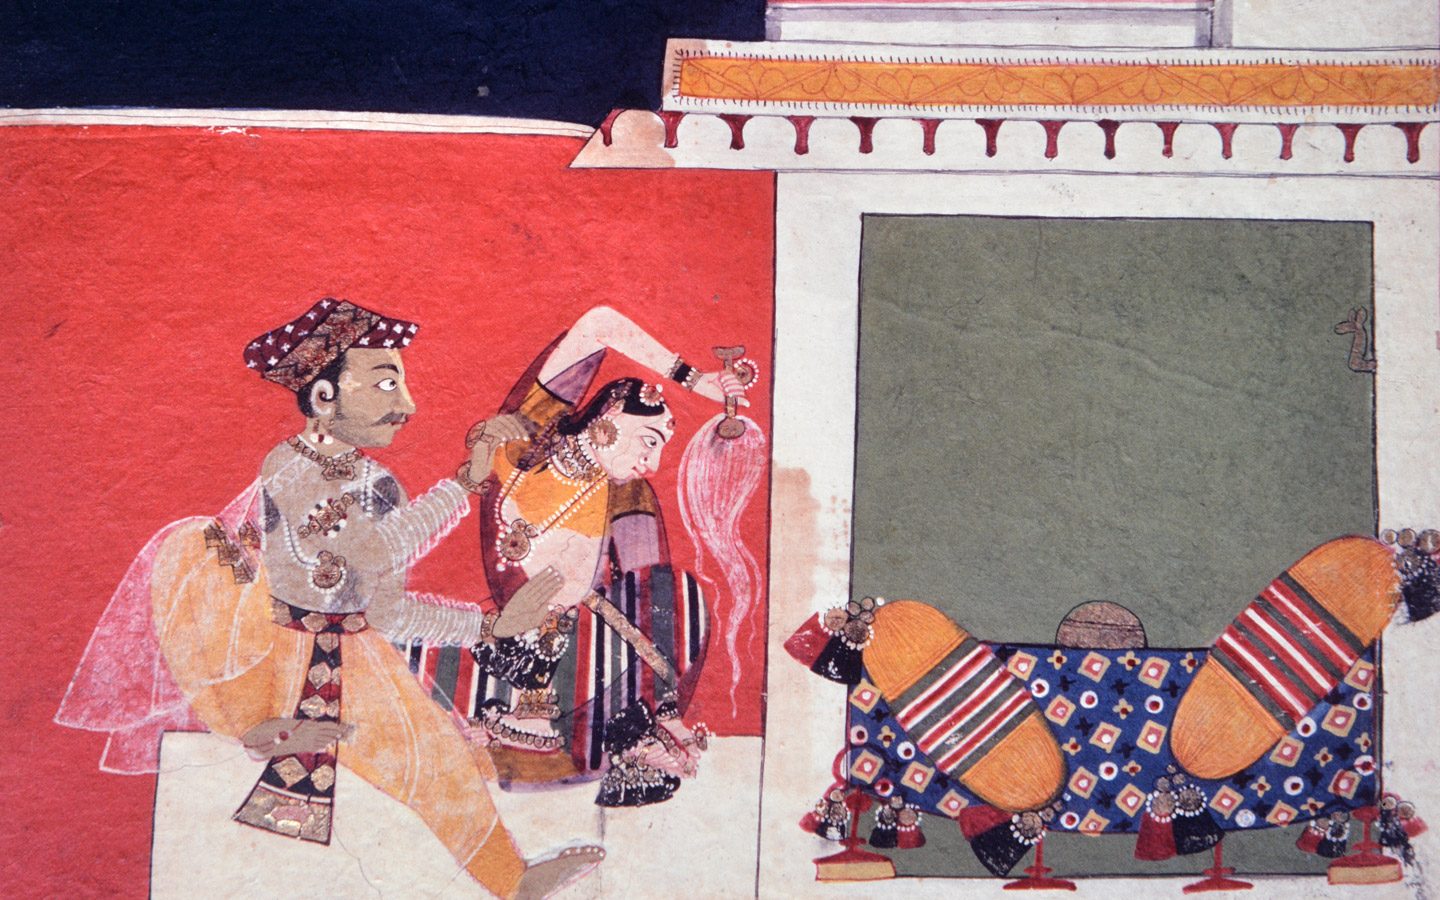
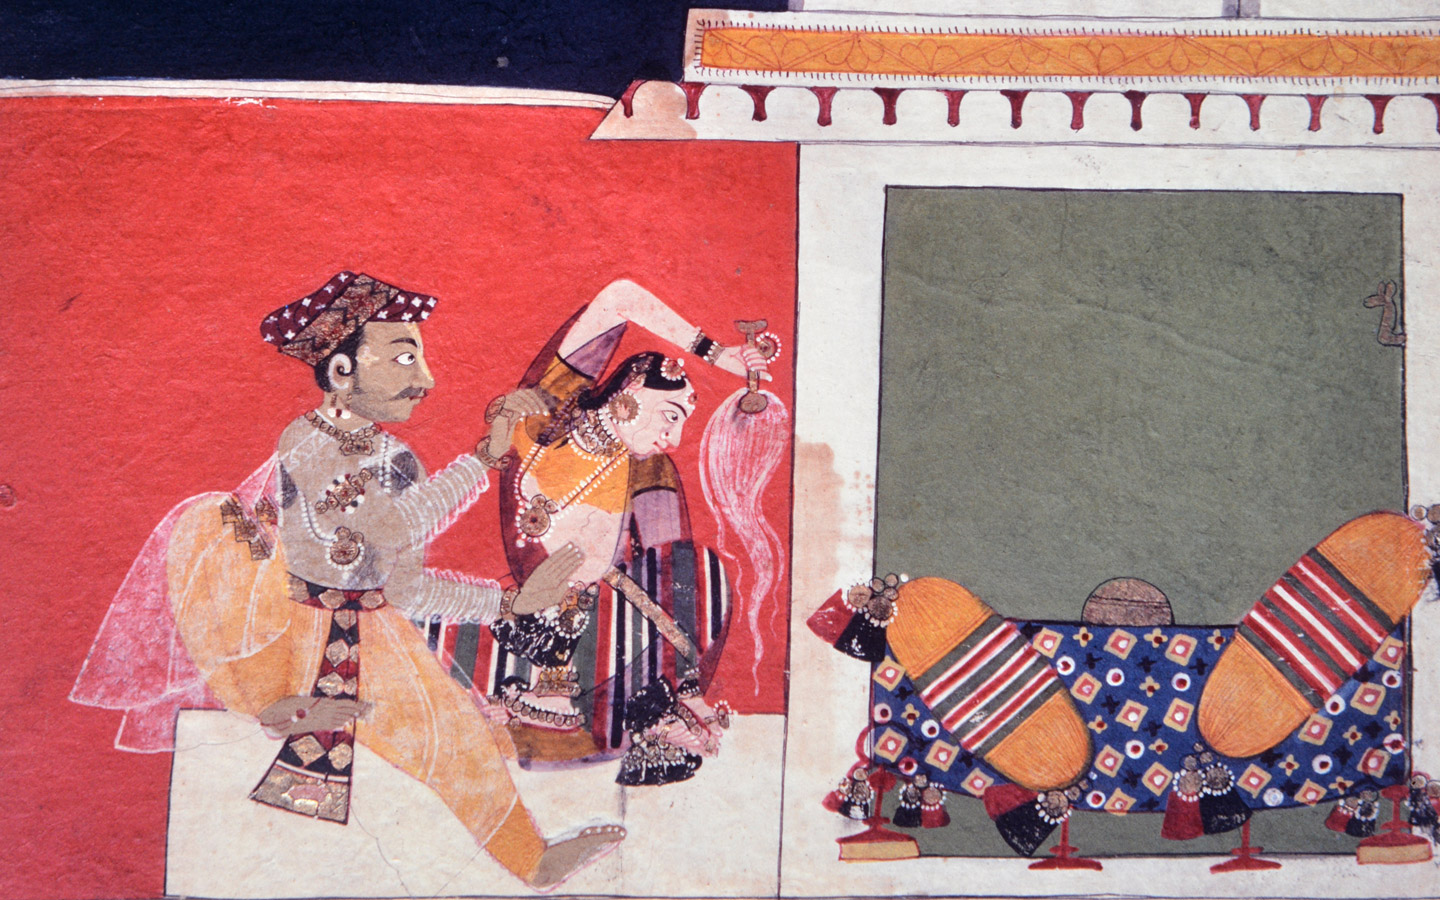
update ragamala design

diff --git a/app/assets/stylesheets/collections/sets/_ragamala.css.scss b/app/assets/stylesheets/collections/sets/_ragamala.css.scss
@@ -1,19 +1,30 @@
+// Variables
+// -------------- //
+$ragamala-orange: #d3591f;
+
 .hero-ragamala {
-	background: url("sets/ragamala/hero-ragamala2.jpg") no-repeat;
+	background: url("sets/ragamala/hero-ragamala3.jpg") no-repeat 50% 70%;
 	-webkit-background-size: cover;
 	-moz-background-size: cover;
 	-o-background-size: cover;
 	background-size: cover;
-	min-height: 700px;
 	color: white;
 	padding-bottom: 4em;
+}
+.hero-ragamala-sub {
+	background: url("sets/ragamala/banner.jpg") no-repeat;
+	-webkit-background-size: cover;
+	-moz-background-size: cover;
+	-o-background-size: cover;
+	background-size: cover;
+	height: 130px;
 }
 .wrapper-ragamala {
 	padding-bottom: 0 !important;
 	.well {
 		background: rgba(0,0,0,.8);
 		border: 0;
-		margin-top: -1em;
+		margin-top: 1em;
 		position:relative;
 		color: white;
 		padding: 3em 3em 2em 3em;
@@ -32,14 +43,22 @@
 		color: white;
 		text-transform: uppercase;
 	}
-	.nav-collection {
-		margin: 1em -15px;
-		li > a, li > a:hover {
-			background: white;
-			color: $dark-gray;
-			text-transform: uppercase;
-			font-size: 16px;
-		}
+	// .nav-collection {
+	// 	margin: 1em -15px;
+	// 	li > a, li > a:hover {
+	// 		background: white;
+	// 		color: $dark-gray;
+	// 		text-transform: uppercase;
+	// 		font-size: 16px;
+	// 	}
+	// }
+	h1 {
+		color: $ragamala-orange;
+		font-weight: 700;
+		margin-top: 170px;
+	}
+	.main-text {
+		margin-top: 100px;
 	}
 }
 
@@ -65,12 +84,24 @@
 		.nav-collection {
 			margin-top: 2em;
 		}
+		.well {
+			margin-top: -1em;
+		}
+	}
+	.nav-pills.nav-collection > li > a {
+		font-size: 14px;
+	}
+	.hero-ragamala {
+		min-height: 700px;
 	}
 }
 
 /* Medium devices (desktops, 992px and up) */
-// @media (min-width: $screen-md) {
-// }
+@media (min-width: $screen-md) {
+	.nav-pills.nav-collection > li > a {
+		font-size: 16px;
+	}
+}
 /* Large devices (desktops, 1200px and up) */
 // @media (min-width: $screen-lg) {
 // }

diff --git a/app/assets/stylesheets/collections/_collection.css.scss b/app/assets/stylesheets/collections/_collection.css.scss
@@ -19,6 +19,10 @@
 	padding: 0 0 3em 0;
 	h1 {
 		margin-bottom: 0;
+		a, a:hover, a:active, a:focus {
+			color: $dark-gray;
+			text-decoration: none;
+		}
 	}
 	.navbar-collapse {
 		padding-left: 0;
@@ -36,18 +40,34 @@
 	float: none;
 	color: $dark-gray;
 }
+.nav-collection {
+	margin: 1em -10px;
+}
 .nav-pills.nav-collection > li {
 	float: none;
 }
 .nav-pills.nav-collection > li > a {
 	padding: 5px 10px;
-	font-size: 14px;
-	background: $pale-blue;
+	font-size: 16px;
+	background: white;
 	color: $dark-gray;
+	text-transform: uppercase;
 }
 .nav-pills.nav-collection > li > a:hover {
-	background: $footer-gray;
+	background: white;
 }
+.main-text {
+	padding-bottom: 3em;
+}
+// .nav-collection {
+// 	margin: 1em -15px;
+// 	li > a, li > a:hover {
+// 		background: white;
+// 		color: $dark-gray;
+// 		text-transform: uppercase;
+// 		font-size: 16px;
+// 	}
+// }
 
 
 // MEDIA QUERIES
@@ -72,9 +92,8 @@
 		float: left;
 	}
 	.nav-collection {
-		margin-top: 1em;
+		margin: 1em -10px;
 	}
-	
 }
 
 /* Medium devices (desktops, 992px and up) */

diff --git a/app/assets/stylesheets/collections/_footer.css.scss b/app/assets/stylesheets/collections/_footer.css.scss
@@ -1,6 +1,10 @@
 footer {
 	padding: 2em 0;
+	color: $medium-gray;
 	p {
 		font-size: 14px;
+	}
+	a {
+		color: $dark-gray;
 	}
 }
